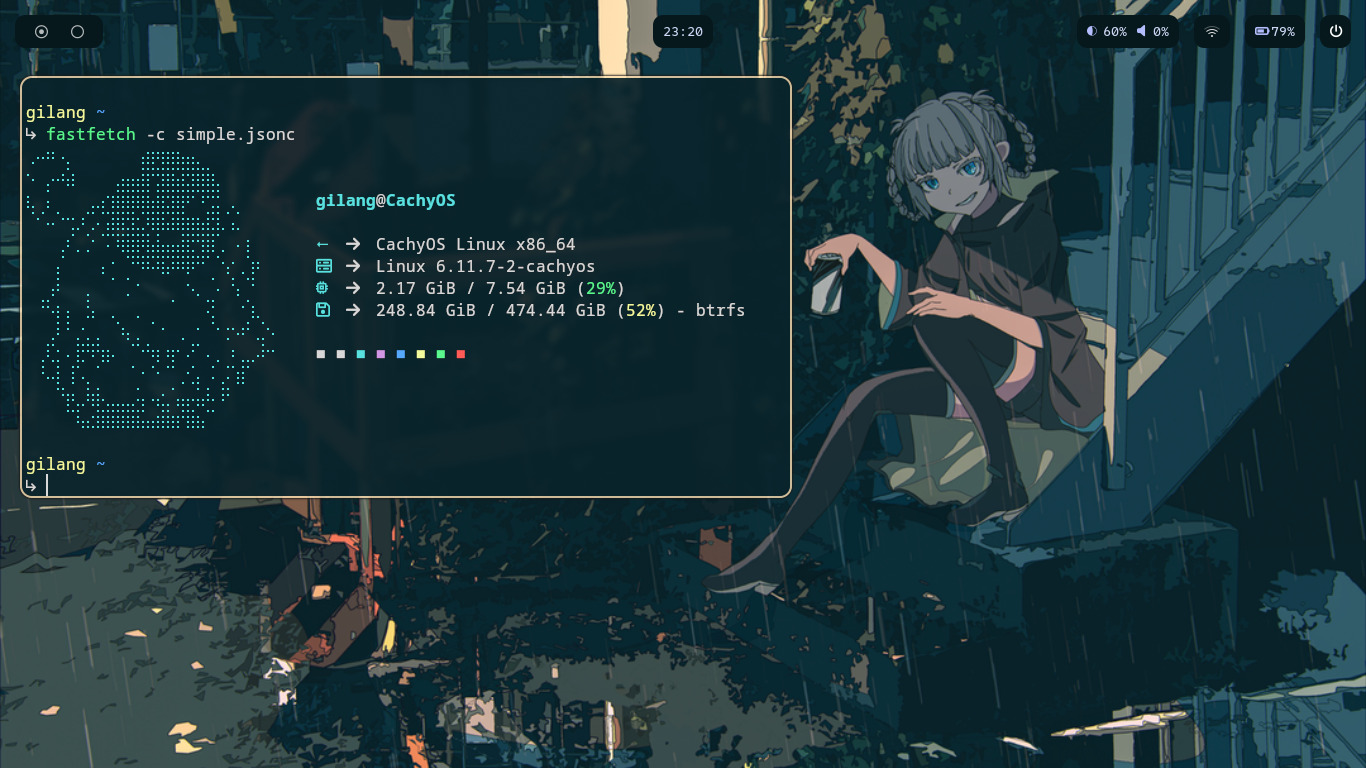
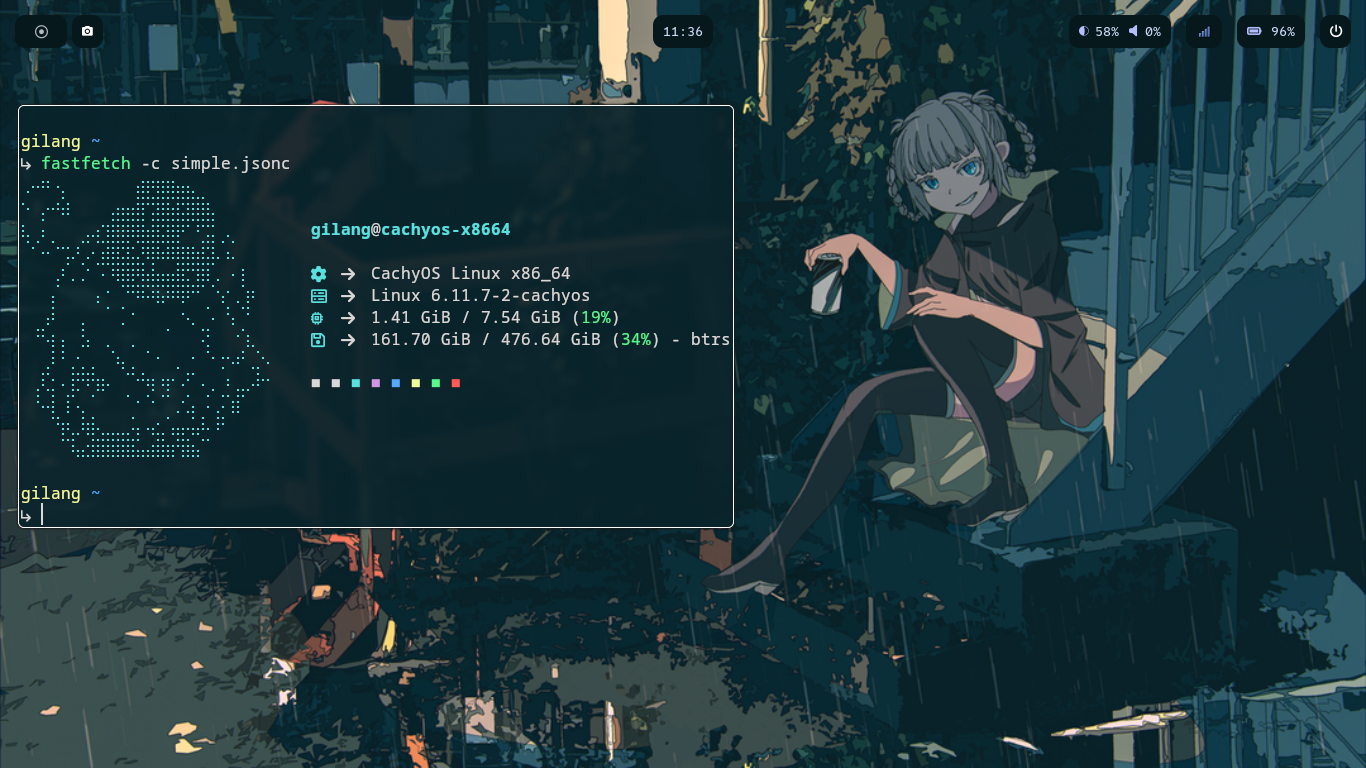
Update rofi menu apps & screenshot w/ grim

diff --git a/.config/waybar/style.css b/.config/waybar/style.css
@@ -56,6 +56,14 @@ window#waybar {
   margin-right: 15px;
 }
 
+#custom-screenshots {
+   border-radius: 10px;
+  background-color: #06181c;
+  margin-top: 15px;
+  padding-left: 10px;
+  padding-right: 13px;
+  margin-right: 15px;
+}
 
 
 

diff --git a/README.md b/README.md
@@ -17,7 +17,7 @@ This repository contains configuration files (dotfiles) for setting up a custom 
 #### 1. Install Dependencies
 You may need to install some Hyprland components and optional packages. Use the following command on Arch-based systems:
 ```bash
-sudo pacman -S hyprland waybar hyprpaper wlogout rofi kitty fastfetch thunar
+sudo pacman -S hyprland waybar hyprpaper wlogout rofi grim kitty fastfetch thunar
 ```
 
 #### 2. Clone the Repository
